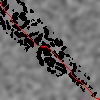
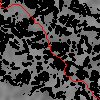
slope based cost

diff --git a/pathplanner/finder/finder.py b/pathplanner/finder/finder.py
@@ -40,7 +40,14 @@ def remaining_path(row, col, dest):
     return hypot(row - dest[0], col - dest[1])
 
 
-def a_star(grid, start, end, movement_mode=MovementMode.FOUR_DIRECTIONS, on_step: SearchStepCallback = None):
+def a_star(
+    grid,
+    start,
+    end,
+    movement_mode=MovementMode.FOUR_DIRECTIONS,
+    cost_map=None,
+    on_step: SearchStepCallback = None,
+):
     start = tuple(start)
     end = tuple(end)
     ROW, COL = len(grid), len(grid[0])
@@ -94,7 +101,11 @@ def a_star(grid, start, end, movement_mode=MovementMode.FOUR_DIRECTIONS, on_step
                 continue
             if (nr, nc) in visited:
                 continue
-            step = sqrt(2.0) if (dr and dc) else 1.0
+            base_step = sqrt(2.0) if (dr and dc) else 1.0
+            cost_multiplier = 1.0
+            if cost_map is not None:
+                cost_multiplier = cost_map[nr][nc]
+            step = base_step * cost_multiplier
             ng = g[cur] + step
             if ng < g.get((nr, nc), float("inf")):
                 g[(nr, nc)] = ng

diff --git a/pathplanner/finder/convert.py b/pathplanner/finder/convert.py
@@ -1,9 +1,23 @@
-from config import FieldConfig, MovementMode
-from numpy import ndarray
+from config import FieldConfig, MovementMode, RobotConfig
+from numpy import ndarray, gradient, hypot, clip, arctan
+from numpy import degrees
 
 
 def convert_heightmap_to_meters(map: ndarray, field_config: FieldConfig) -> ndarray:
     return field_config.HEIGHT_MIN_M + map * (field_config.HEIGHT_MAX_M - field_config.HEIGHT_MIN_M)
+
+
+def compute_gradient_cost_map(
+    height_map: ndarray, field_config: FieldConfig, robot_config: RobotConfig
+) -> ndarray:
+    dx, dy = gradient(height_map, field_config.PIXEL_SIZE_M)
+    slope = hypot(dx, dy)
+    slope_angle = degrees(arctan(slope))
+    max_slope = robot_config.MAX_SLOPE_DEG
+    if max_slope <= 0:
+        return clip(slope_angle, 0.0, None) * 0.0 + 1.0
+    slope_ratio = clip(slope_angle / max_slope, 0.0, 1.0)
+    return 1.0 + robot_config.SLOPE_COST_WEIGHT * slope_ratio * slope_ratio
 
 
 def directions_from_movement_mode(mode: MovementMode):

diff --git a/pathplanner/main.py b/pathplanner/main.py
@@ -1,7 +1,7 @@
 from config import MovementMode
 from finder.finder import a_star
 from finder.messaging import SearchStep
-from finder.convert import convert_heightmap_to_meters
+from finder.convert import convert_heightmap_to_meters, compute_gradient_cost_map
 from image.gen import noisy_square
 from image.process import get_red, normalize
 from image.draw import draw_path
@@ -22,6 +22,7 @@ print(f"Max slope is {ROBOT_CONFIG.MAX_SLOPE_DEG}deg")
 
 
 map_m = convert_heightmap_to_meters(map_n, FIELD_CONFIG)
+cost_map = compute_gradient_cost_map(map_m, FIELD_CONFIG, ROBOT_CONFIG)
 
 print(map_m)
 
@@ -45,8 +46,14 @@ def record_step(snapshot: SearchStep):
     )
 
 
-p, b = a_star(map_m, (0, 0), (99, 99),
-              ROBOT_CONFIG.MOVEMENT_MODE, on_step=record_step)
+p, b = a_star(
+    map_m,
+    (0, 0),
+    (99, 99),
+    ROBOT_CONFIG.MOVEMENT_MODE,
+    cost_map=cost_map,
+    on_step=record_step,
+)
 print(p)
 print(b)
 

diff --git a/pathplanner/config.py b/pathplanner/config.py
@@ -23,6 +23,7 @@ class RobotConfig:
     MAX_SLOPE_DEG = 30.0
     START_POS = (0, 0)
     MOVEMENT_MODE = MovementMode.EIGHT_DIRECTIONS
+    SLOPE_COST_WEIGHT = 10.0
 
 
 FIELD_CONFIG = FieldConfig()
